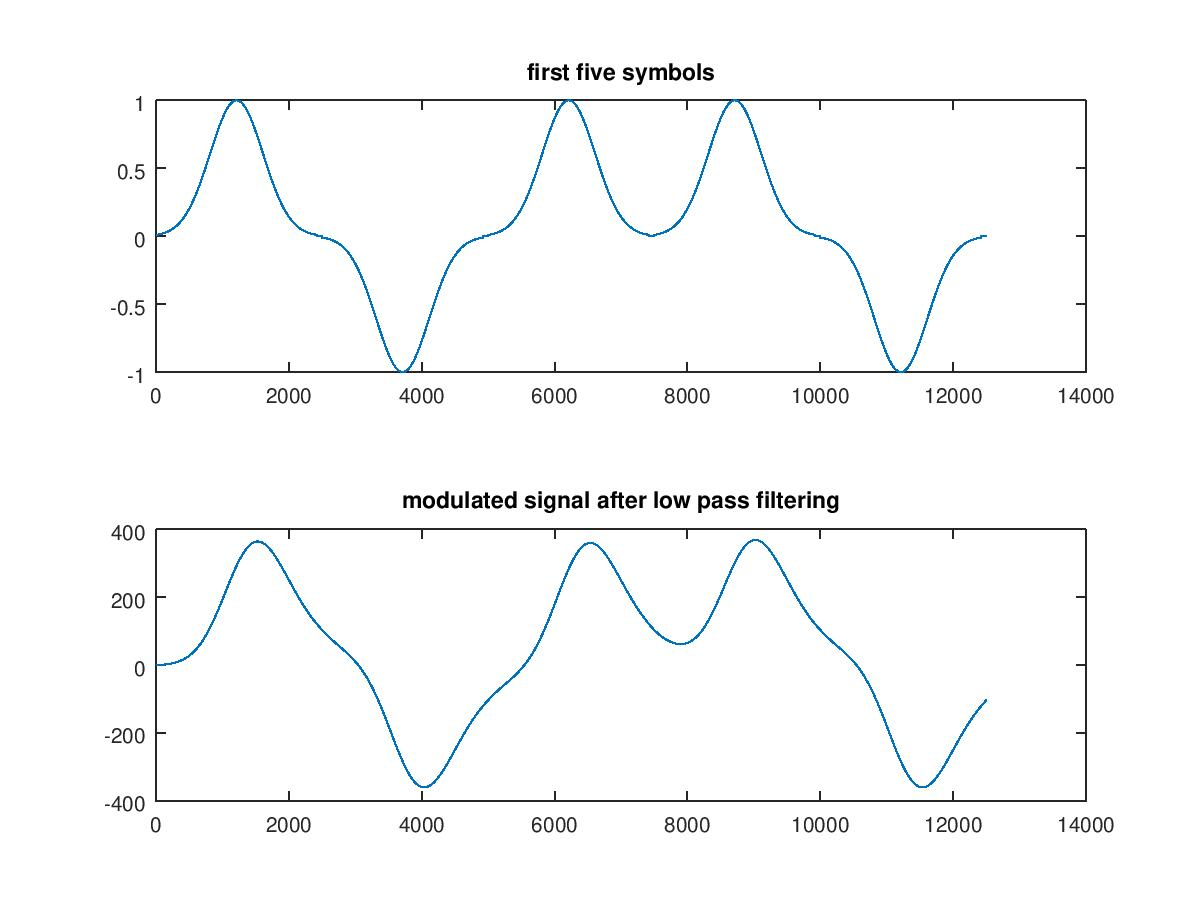
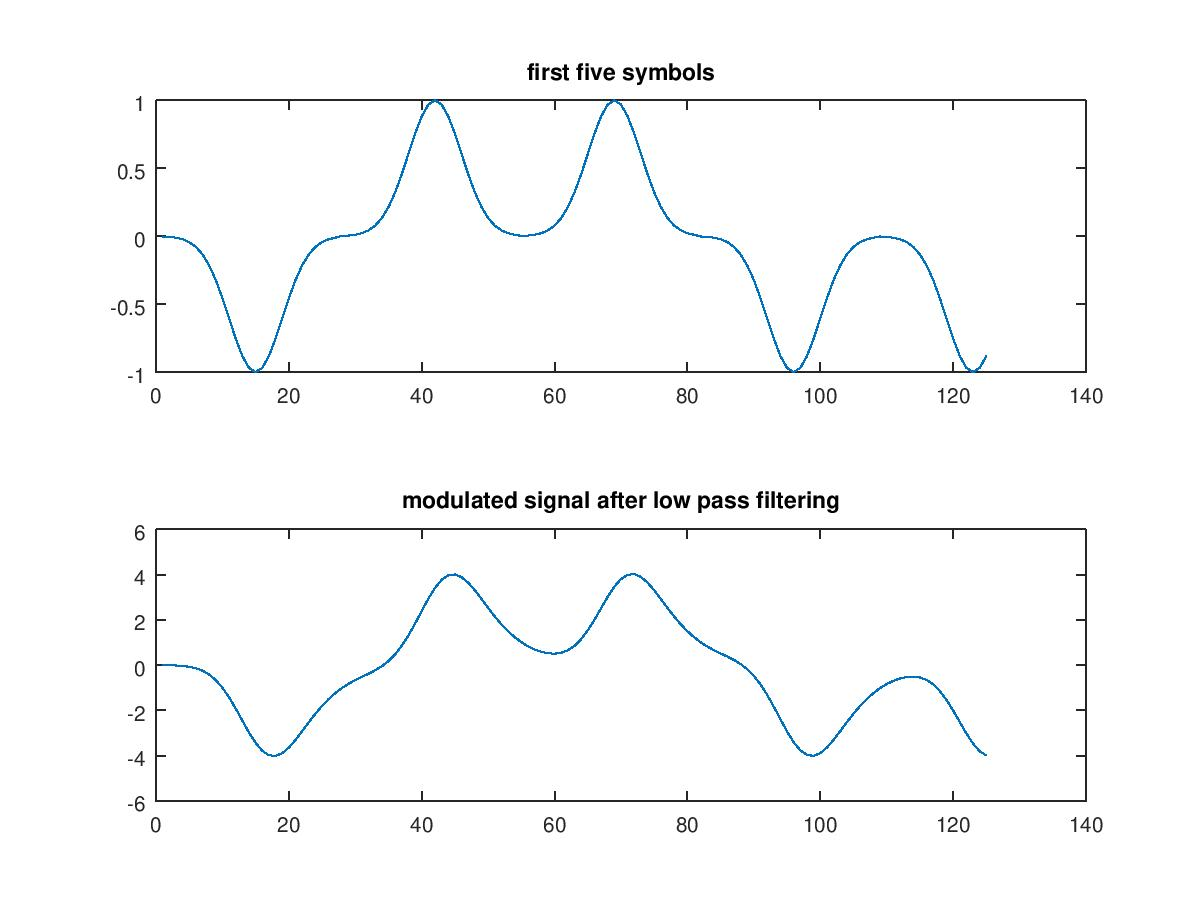
removed hard coded value of number of symbols. removed scaling of the pulse at line 66

diff --git a/hw6/hw6/matchedFilter.m b/hw6/hw6/matchedFilter.m
@@ -21,7 +21,8 @@ clear all;
 	t_trunc = t((2*fs)-idx:(2*fs)+idx);
 	p_trunc = p((2*fs)-idx:(2*fs)+idx);
 	disp(["length of the sequence P_trunc = " num2str(length(p_trunc))])
-%modelling the low pass filter , taking the same sampling freq(fs = 10) and tolerance = 0.01
+%modelling the low pass filter , taking the sampling freq(fs = 10) and tolerance = 0.001
+	tolerance = 0.001
 	RC = 0.5;
 	t = 0:1/fs:3;
 	h = exp(-t/RC);
@@ -34,7 +35,8 @@ clear all;
 %calculating the value of 'N' , given Rb = 0.4 
 	N = fs/0.4;
 %generating random symbols for bpsk modulation
-	sk	= -1 + 2*(rand(1,10000)>0.5);
+	k = 10000; %be the number of arbitrary symbols
+	sk	= -1 + 2*(rand(1,k)>0.5);
 	%sk_1 = zeros(1,2000);
 	%sk_1(1:2:end) = sk;
 
@@ -63,7 +65,7 @@ clear all;
 	variance_param = [0.1 0.2 0.5 0.8 1.0]; 
 	%multiplication by this parameter changes amplitude of the gaussian noise
 	for i = 1:5
-		tx_sig(i,:) = mod_sig_filtered/4+ variance_param(i).*randn(1,len_tx_sig);
+		tx_sig(i,:) = mod_sig_filtered+ variance_param(i).*randn(1,len_tx_sig);
 	endfor
 %matched filter reciever 
 	basis = conv(p_trunc,h_trunc);
@@ -80,10 +82,10 @@ clear all;
 %			title("original transmitted symbols (first 10)");
 %		print -dpng "symbol_detection.png"
 	
-	sk_hat = zeros(5,10001);
+	sk_hat = zeros(5,k);
 	for i = 1:5
 		matched_filter_out = conv(tx_sig(i,:),matched_filter);
-		sk_hat(i,:) = -1 + 2.*(matched_filter_out(2*N:length(p_trunc):end)>0);
+		sk_hat(i,:) = -1 + 2.*(matched_filter_out(2*N:length(p_trunc):end-length(matched_filter))>0);
 	end
 %plotting symbols
 	
@@ -98,7 +100,8 @@ clear all;
 %calculation of bit error rate
 	error_rate = zeros(1,5);
 	for i = 1:5
-		error_rate(i) = sum((sk - sk_hat(i,1:10000)) != 0) / 10000;
+		error_rate(i) = sum((sk - sk_hat(i,1:k)) != 0) / k;
 	end
+	figure;
 	plot(error_rate);
 
